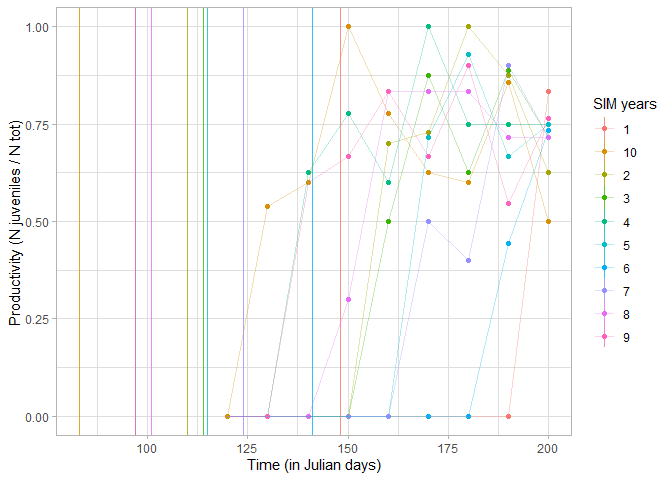
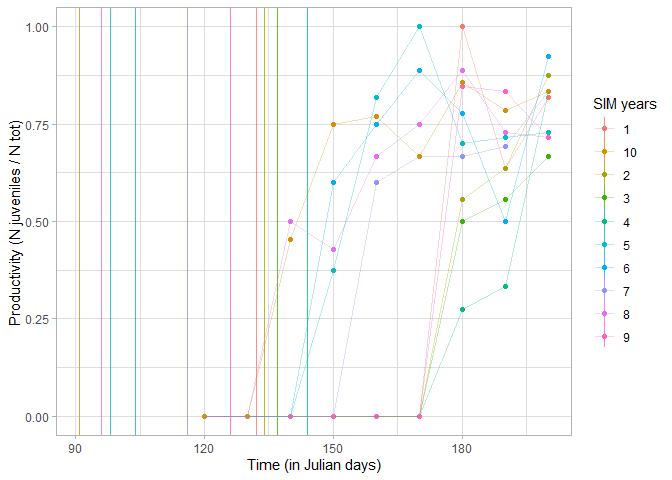
maj

diff --git a/4_report_script_3.md b/4_report_script_3.md
@@ -195,141 +195,141 @@ md_1
     ##  3 chains, each with 10000 iterations (first 3000 discarded), n.thin = 7
     ##  n.sims = 3000 iterations saved
     ##                    mu.vect sd.vect    2.5%     25%     50%     75%   97.5%
-    ## asig[1]              0.744   0.048   0.653   0.718   0.742   0.769   0.849
-    ## asig[2]              0.747   0.038   0.678   0.723   0.746   0.769   0.827
-    ## asig[3]              0.742   0.039   0.666   0.719   0.742   0.766   0.824
-    ## asig[4]              0.743   0.035   0.673   0.721   0.742   0.766   0.816
-    ## asig[5]              0.751   0.040   0.678   0.726   0.748   0.774   0.839
-    ## asig[6]              0.733   0.044   0.631   0.710   0.736   0.761   0.816
-    ## asig[7]              0.726   0.043   0.622   0.704   0.730   0.754   0.799
-    ## asig[8]              0.750   0.038   0.678   0.725   0.747   0.772   0.830
-    ## asig[9]              0.737   0.033   0.667   0.717   0.738   0.759   0.799
-    ## asig[10]             0.725   0.038   0.639   0.701   0.729   0.750   0.790
-    ## csig[1]            194.706   2.447 190.273 192.944 194.682 196.533 199.212
-    ## csig[2]            155.388   2.538 150.535 153.513 155.608 157.363 159.573
-    ## csig[3]            157.782   2.239 152.365 156.575 158.296 159.398 161.019
-    ## csig[4]            136.766   2.369 131.682 135.177 137.013 138.577 140.624
-    ## csig[5]            165.921   2.280 161.456 164.322 166.007 167.654 169.965
-    ## csig[6]            187.948   2.574 182.139 186.447 188.410 189.776 192.184
-    ## csig[7]            167.732   2.819 162.142 165.835 167.960 169.514 173.421
-    ## csig[8]            150.431   1.807 146.266 149.564 150.484 151.416 153.911
-    ## csig[9]            136.559   2.513 131.243 134.873 136.907 138.406 140.546
-    ## csig[10]           127.432   2.321 122.146 126.061 127.847 129.116 130.967
-    ## dsig[1]              1.437   0.757   0.169   0.899   1.369   1.887   3.107
-    ## dsig[2]              1.493   0.758   0.215   0.955   1.433   1.955   3.149
-    ## dsig[3]              1.678   0.815   0.327   1.106   1.588   2.147   3.559
-    ## dsig[4]              1.529   0.778   0.232   0.983   1.469   1.999   3.208
-    ## dsig[5]              1.381   0.709   0.199   0.871   1.345   1.822   2.939
-    ## dsig[6]              1.650   0.807   0.312   1.082   1.575   2.112   3.449
-    ## dsig[7]              1.697   0.939   0.297   1.070   1.548   2.146   4.031
-    ## dsig[8]              1.747   0.785   0.496   1.198   1.646   2.188   3.553
-    ## dsig[9]              1.598   0.830   0.288   1.021   1.508   2.055   3.489
-    ## dsig[10]             1.659   0.893   0.294   1.059   1.540   2.112   3.818
-    ## random_asig_an[1]    0.005   0.040  -0.074  -0.011   0.001   0.018   0.099
-    ## random_asig_an[2]    0.008   0.033  -0.057  -0.007   0.003   0.021   0.085
-    ## random_asig_an[3]    0.002   0.032  -0.064  -0.011   0.000   0.016   0.076
-    ## random_asig_an[4]    0.003   0.030  -0.061  -0.010   0.001   0.016   0.074
-    ## random_asig_an[5]    0.011   0.034  -0.047  -0.006   0.004   0.026   0.096
-    ## random_asig_an[6]   -0.007   0.036  -0.098  -0.021  -0.002   0.010   0.060
-    ## random_asig_an[7]   -0.013   0.036  -0.110  -0.026  -0.005   0.004   0.044
-    ## random_asig_an[8]    0.010   0.033  -0.048  -0.007   0.004   0.024   0.091
-    ## random_asig_an[9]   -0.003   0.029  -0.070  -0.016  -0.001   0.011   0.058
-    ## random_asig_an[10]  -0.015   0.034  -0.101  -0.029  -0.007   0.002   0.042
-    ## random_csig_an[1]   43.129   3.741  35.683  40.626  43.140  45.600  50.408
-    ## random_csig_an[2]    3.812   3.770  -3.641   1.285   3.821   6.460  10.990
-    ## random_csig_an[3]    6.206   3.572  -0.988   3.841   6.337   8.654  12.875
-    ## random_csig_an[4]  -14.810   3.658 -22.168 -17.225 -14.832 -12.343  -7.851
-    ## random_csig_an[5]   14.345   3.651   7.018  11.908  14.320  16.852  21.090
-    ## random_csig_an[6]   36.371   3.835  28.407  33.836  36.493  39.024  43.565
-    ## random_csig_an[7]   16.155   3.935   8.422  13.639  16.237  18.752  23.821
-    ## random_csig_an[8]   -1.145   3.304  -7.799  -3.229  -1.081   1.007   5.160
-    ## random_csig_an[9]  -15.018   3.764 -22.489 -17.593 -14.951 -12.434  -7.763
-    ## random_csig_an[10] -24.145   3.586 -31.504 -26.562 -24.018 -21.559 -17.461
-    ## random_dsig_an[1]   -0.175   0.638  -1.684  -0.418  -0.079   0.120   1.027
-    ## random_dsig_an[2]   -0.119   0.634  -1.602  -0.369  -0.042   0.162   1.128
-    ## random_dsig_an[3]    0.067   0.615  -1.154  -0.199   0.022   0.311   1.496
-    ## random_dsig_an[4]   -0.083   0.619  -1.492  -0.342  -0.032   0.183   1.146
-    ## random_dsig_an[5]   -0.230   0.639  -1.766  -0.492  -0.108   0.101   0.846
-    ## random_dsig_an[6]    0.038   0.601  -1.182  -0.213   0.018   0.279   1.328
-    ## random_dsig_an[7]    0.085   0.725  -1.254  -0.216   0.007   0.313   1.806
-    ## random_dsig_an[8]    0.135   0.579  -1.012  -0.131   0.057   0.366   1.448
-    ## random_dsig_an[9]   -0.014   0.623  -1.358  -0.290  -0.006   0.231   1.340
-    ## random_dsig_an[10]   0.048   0.668  -1.276  -0.234   0.003   0.270   1.725
-    ## sigma_asig_an       -0.010   0.041  -0.090  -0.034  -0.011   0.015   0.073
-    ## sigma_csig_an        7.866  22.356 -31.190 -18.889  19.119  23.951  34.860
-    ## sigma_dsig_an        0.263   0.724  -1.172  -0.179   0.283   0.676   1.715
-    ## deviance           158.332   5.674 149.263 154.215 157.622 161.700 172.237
+    ## asig[1]              0.751   0.043   0.666   0.725   0.750   0.777   0.840
+    ## asig[2]              0.739   0.047   0.640   0.714   0.740   0.768   0.829
+    ## asig[3]              0.724   0.051   0.598   0.697   0.729   0.757   0.807
+    ## asig[4]              0.730   0.056   0.603   0.704   0.736   0.764   0.826
+    ## asig[5]              0.748   0.040   0.666   0.723   0.748   0.774   0.829
+    ## asig[6]              0.759   0.040   0.685   0.731   0.756   0.783   0.847
+    ## asig[7]              0.735   0.040   0.651   0.712   0.737   0.761   0.809
+    ## asig[8]              0.727   0.045   0.624   0.701   0.731   0.757   0.808
+    ## asig[9]              0.755   0.042   0.676   0.727   0.752   0.779   0.846
+    ## asig[10]             0.750   0.039   0.674   0.724   0.749   0.775   0.830
+    ## csig[1]            174.290   2.174 170.273 172.719 174.255 175.870 178.410
+    ## csig[2]            176.895   2.807 171.274 174.958 177.154 178.949 181.938
+    ## csig[3]            178.027   3.259 172.051 175.865 178.097 179.999 184.874
+    ## csig[4]            182.365   3.486 175.686 180.178 181.713 184.591 189.704
+    ## csig[5]            149.399   2.457 143.437 148.196 149.650 150.883 153.811
+    ## csig[6]            147.048   2.420 142.001 145.413 147.312 148.843 151.244
+    ## csig[7]            156.982   2.489 151.768 155.353 157.303 158.764 161.199
+    ## csig[8]            139.685   3.959 132.555 137.083 139.286 141.900 148.435
+    ## csig[9]            174.593   2.144 170.689 172.957 174.619 176.131 178.567
+    ## csig[10]           138.615   2.668 132.263 137.266 139.025 140.178 143.317
+    ## dsig[1]              1.406   0.903   0.105   0.752   1.270   1.889   3.626
+    ## dsig[2]              2.077   1.254   0.230   1.173   1.843   2.757   5.112
+    ## dsig[3]              2.217   1.394   0.247   1.231   1.954   2.929   5.695
+    ## dsig[4]              2.936   1.611   0.540   1.630   2.744   4.036   6.409
+    ## dsig[5]              2.254   1.186   0.480   1.379   2.066   2.888   5.030
+    ## dsig[6]              1.899   1.126   0.230   1.107   1.698   2.512   4.602
+    ## dsig[7]              1.887   1.219   0.209   1.028   1.650   2.479   4.767
+    ## dsig[8]              2.879   1.888   0.380   1.401   2.373   4.047   7.277
+    ## dsig[9]              1.392   0.871   0.111   0.744   1.275   1.878   3.427
+    ## dsig[10]             2.451   1.400   0.472   1.421   2.165   3.182   5.848
+    ## random_asig_an[1]    0.010   0.038  -0.062  -0.008   0.004   0.025   0.099
+    ## random_asig_an[2]   -0.003   0.039  -0.095  -0.017  -0.001   0.014   0.078
+    ## random_asig_an[3]   -0.018   0.041  -0.120  -0.034  -0.007   0.004   0.050
+    ## random_asig_an[4]   -0.011   0.043  -0.116  -0.026  -0.003   0.009   0.064
+    ## random_asig_an[5]    0.006   0.036  -0.065  -0.011   0.002   0.021   0.091
+    ## random_asig_an[6]    0.017   0.038  -0.045  -0.004   0.008   0.035   0.112
+    ## random_asig_an[7]   -0.006   0.033  -0.083  -0.020  -0.003   0.010   0.061
+    ## random_asig_an[8]   -0.015   0.037  -0.103  -0.032  -0.006   0.005   0.049
+    ## random_asig_an[9]    0.013   0.038  -0.053  -0.006   0.005   0.029   0.107
+    ## random_asig_an[10]   0.008   0.035  -0.056  -0.009   0.003   0.023   0.092
+    ## random_csig_an[1]   21.800   3.611  15.115  19.351  21.655  24.216  29.057
+    ## random_csig_an[2]   24.404   3.988  16.806  21.677  24.361  27.045  32.418
+    ## random_csig_an[3]   25.536   4.409  17.110  22.559  25.435  28.404  34.714
+    ## random_csig_an[4]   29.875   4.528  21.431  26.861  29.518  32.801  39.333
+    ## random_csig_an[5]   -3.092   3.719 -10.565  -5.602  -3.046  -0.668   4.171
+    ## random_csig_an[6]   -5.442   3.686 -12.516  -7.958  -5.459  -2.933   1.757
+    ## random_csig_an[7]    4.492   3.745  -2.764   1.841   4.500   6.986  12.155
+    ## random_csig_an[8]  -12.806   4.812 -21.223 -16.097 -13.156  -9.908  -2.238
+    ## random_csig_an[9]   22.103   3.565  15.158  19.758  22.046  24.516  29.345
+    ## random_csig_an[10] -13.876   3.777 -21.614 -16.304 -13.820 -11.481  -6.446
+    ## random_dsig_an[1]   -0.830   1.121  -3.465  -1.504  -0.566  -0.017   0.792
+    ## random_dsig_an[2]   -0.160   1.061  -2.570  -0.659  -0.060   0.348   2.083
+    ## random_dsig_an[3]   -0.019   1.099  -2.303  -0.536  -0.017   0.463   2.432
+    ## random_dsig_an[4]    0.700   1.104  -1.033  -0.011   0.432   1.285   3.374
+    ## random_dsig_an[5]    0.018   0.988  -2.155  -0.426   0.005   0.456   2.159
+    ## random_dsig_an[6]   -0.338   1.032  -2.709  -0.902  -0.135   0.188   1.619
+    ## random_dsig_an[7]   -0.349   1.089  -2.784  -0.871  -0.168   0.165   1.763
+    ## random_dsig_an[8]    0.642   1.358  -1.445  -0.136   0.247   1.285   4.074
+    ## random_dsig_an[9]   -0.844   1.122  -3.428  -1.501  -0.554  -0.021   0.793
+    ## random_dsig_an[10]   0.215   1.087  -1.899  -0.286   0.068   0.669   2.778
+    ## sigma_asig_an        0.008   0.046  -0.086  -0.021   0.010   0.037   0.097
+    ## sigma_csig_an        6.639  19.549 -27.956 -16.499  16.322  20.546  30.496
+    ## sigma_dsig_an        0.249   1.438  -2.709  -0.670   0.362   1.218   2.752
+    ## deviance           158.746   6.203 148.424 154.307 158.156 162.520 172.207
     ##                     Rhat n.eff
-    ## asig[1]            1.003  1500
-    ## asig[2]            1.001  3000
-    ## asig[3]            1.003   710
-    ## asig[4]            1.001  3000
-    ## asig[5]            1.002  1400
-    ## asig[6]            1.002  1400
-    ## asig[7]            1.001  3000
-    ## asig[8]            1.004   570
-    ## asig[9]            1.001  2900
-    ## asig[10]           1.003  1500
+    ## asig[1]            1.002  2700
+    ## asig[2]            1.006   740
+    ## asig[3]            1.005   450
+    ## asig[4]            1.008   540
+    ## asig[5]            1.001  3000
+    ## asig[6]            1.002  1600
+    ## asig[7]            1.004   600
+    ## asig[8]            1.006   430
+    ## asig[9]            1.004  1200
+    ## asig[10]           1.001  3000
     ## csig[1]            1.001  3000
     ## csig[2]            1.001  3000
     ## csig[3]            1.001  3000
-    ## csig[4]            1.001  2600
+    ## csig[4]            1.001  3000
     ## csig[5]            1.001  3000
     ## csig[6]            1.001  3000
     ## csig[7]            1.001  3000
-    ## csig[8]            1.001  3000
+    ## csig[8]            1.004   600
     ## csig[9]            1.001  3000
     ## csig[10]           1.001  3000
-    ## dsig[1]            1.005  1800
-    ## dsig[2]            1.001  3000
-    ## dsig[3]            1.002  2400
-    ## dsig[4]            1.005  2600
-    ## dsig[5]            1.006  1100
+    ## dsig[1]            1.001  3000
+    ## dsig[2]            1.002  3000
+    ## dsig[3]            1.001  3000
+    ## dsig[4]            1.007   500
+    ## dsig[5]            1.001  3000
     ## dsig[6]            1.001  3000
-    ## dsig[7]            1.004  3000
-    ## dsig[8]            1.001  3000
-    ## dsig[9]            1.001  3000
-    ## dsig[10]           1.002  1800
-    ## random_asig_an[1]  1.005  3000
-    ## random_asig_an[2]  1.001  3000
-    ## random_asig_an[3]  1.002  1300
-    ## random_asig_an[4]  1.001  3000
-    ## random_asig_an[5]  1.002  2200
-    ## random_asig_an[6]  1.002  2700
-    ## random_asig_an[7]  1.001  3000
-    ## random_asig_an[8]  1.002  1100
-    ## random_asig_an[9]  1.001  3000
-    ## random_asig_an[10] 1.003  3000
-    ## random_csig_an[1]  1.001  3000
-    ## random_csig_an[2]  1.002  1200
-    ## random_csig_an[3]  1.002  2100
-    ## random_csig_an[4]  1.002  1100
-    ## random_csig_an[5]  1.002  2000
-    ## random_csig_an[6]  1.002  1500
-    ## random_csig_an[7]  1.002  1600
-    ## random_csig_an[8]  1.001  2000
-    ## random_csig_an[9]  1.001  2700
-    ## random_csig_an[10] 1.002  2400
-    ## random_dsig_an[1]  1.005  1500
-    ## random_dsig_an[2]  1.005  3000
-    ## random_dsig_an[3]  1.003  3000
-    ## random_dsig_an[4]  1.005  3000
-    ## random_dsig_an[5]  1.007  1600
-    ## random_dsig_an[6]  1.005  2900
-    ## random_dsig_an[7]  1.017   550
-    ## random_dsig_an[8]  1.008  1100
-    ## random_dsig_an[9]  1.002  2900
-    ## random_dsig_an[10] 1.001  2200
-    ## sigma_asig_an      1.012   190
-    ## sigma_csig_an      7.094     3
-    ## sigma_dsig_an      1.057    40
-    ## deviance           1.001  3000
+    ## dsig[7]            1.001  3000
+    ## dsig[8]            1.002  1300
+    ## dsig[9]            1.003  1400
+    ## dsig[10]           1.005   760
+    ## random_asig_an[1]  1.004  2500
+    ## random_asig_an[2]  1.005  2300
+    ## random_asig_an[3]  1.005   580
+    ## random_asig_an[4]  1.008  1200
+    ## random_asig_an[5]  1.003  3000
+    ## random_asig_an[6]  1.009   450
+    ## random_asig_an[7]  1.006  2700
+    ## random_asig_an[8]  1.006  1000
+    ## random_asig_an[9]  1.014   380
+    ## random_asig_an[10] 1.005  2100
+    ## random_csig_an[1]  1.003   830
+    ## random_csig_an[2]  1.001  3000
+    ## random_csig_an[3]  1.001  2100
+    ## random_csig_an[4]  1.002  1400
+    ## random_csig_an[5]  1.002  1500
+    ## random_csig_an[6]  1.003   860
+    ## random_csig_an[7]  1.003   870
+    ## random_csig_an[8]  1.004   640
+    ## random_csig_an[9]  1.002  1300
+    ## random_csig_an[10] 1.002  1300
+    ## random_dsig_an[1]  1.002  1000
+    ## random_dsig_an[2]  1.002  1500
+    ## random_dsig_an[3]  1.001  3000
+    ## random_dsig_an[4]  1.002  1100
+    ## random_dsig_an[5]  1.001  2600
+    ## random_dsig_an[6]  1.001  3000
+    ## random_dsig_an[7]  1.001  3000
+    ## random_dsig_an[8]  1.001  2000
+    ## random_dsig_an[9]  1.002  1200
+    ## random_dsig_an[10] 1.001  3000
+    ## sigma_asig_an      1.018   160
+    ## sigma_csig_an      6.744     3
+    ## sigma_dsig_an      1.055    41
+    ## deviance           1.002  1700
     ## 
     ## For each parameter, n.eff is a crude measure of effective sample size,
     ## and Rhat is the potential scale reduction factor (at convergence, Rhat=1).
     ## 
     ## DIC info (using the rule, pD = var(deviance)/2)
-    ## pD = 16.1 and DIC = 174.4
+    ## pD = 19.2 and DIC = 178.0
     ## DIC is an estimate of expected predictive error (lower deviance is better).
 
 ### Quickly compare mean xmid with ‘real pheno’
@@ -362,3 +362,46 @@ data.frame(estim = md_1$BUGSoutput$mean$c,
 ``` r
 simul_data 
 ```
+
+    ## function (n_breeders, n_years, n_session, start_ces = 80, end_ces = 120, 
+    ##     mean_ld_site = 90) 
+    ## {
+    ##     mean_ld <- round(rnorm(n_years, mean_ld_site, 15))
+    ##     sd_ld <- 7
+    ##     mean_eggs <- 8
+    ##     sd_eggs <- 2
+    ##     df_site <- data.frame(t = NA, n_capt_adults = NA, n_capt_juveniles = NA, 
+    ##         prod = NA, year = NA)[0, ]
+    ##     for (k in 1:n_years) {
+    ##         ld_dates <- round(rnorm(n_breeders, mean = mean_ld[k], 
+    ##             sd = sd_ld))
+    ##         fledgl_dates <- round(ld_dates) + 50
+    ##         n_eggs <- abs(round(rnorm(n_breeders, mean_eggs, sd_eggs)))
+    ##         df_breed <- data.frame(ld_date = ld_dates, n_egg = n_eggs, 
+    ##             fledgl_dates = fledgl_dates)
+    ##         df_breed <- df_breed %>% mutate(rap = ld_date/(mean_ld[k] * 
+    ##             0.9), n_eggs = round(n_eggs * (1/rap)), egg_lost = n_egg - 
+    ##             n_eggs) %>% arrange(ld_date)
+    ##         t_capt <- round(seq(start_ces, end_ces, length.out = n_session))
+    ##         mean_n_capt <- 9
+    ##         df_session <- data.frame(t = t_capt, n_capt_adults = NA, 
+    ##             n_capt_juveniles = NA, prod = NA, year = as.character(k))
+    ##         for (i in t_capt) {
+    ##             n_adults <- n_breeders * 2
+    ##             n_juveniles <- sum(df_breed[df_breed$fledgl_date < 
+    ##                 i, ]$n_eggs)
+    ##             capt_indiv <- sample(c(rep(0, n_adults), rep(1, n_juveniles)), 
+    ##                 round(rnorm(1, mean_n_capt, sd = 3)), replace = TRUE)
+    ##             df_session[df_session$t == i, "n_capt_adults"] <- sum(capt_indiv == 
+    ##                 0)
+    ##             df_session[df_session$t == i, "n_capt_juveniles"] <- sum(capt_indiv == 
+    ##                 1)
+    ##         }
+    ##         df_session <- df_session %>% mutate(prod = n_capt_juveniles/(n_capt_adults + 
+    ##             n_capt_juveniles))
+    ##         df_site <- rbind(df_site, df_session)
+    ##     }
+    ##     df_mean_ld <- data.frame(year = 1:n_years, mean_ld = mean_ld)
+    ##     return(list(capt_sess = df_site, mean_ld_year = df_mean_ld))
+    ## }
+    ## <bytecode: 0x000001b3c9680a20>
